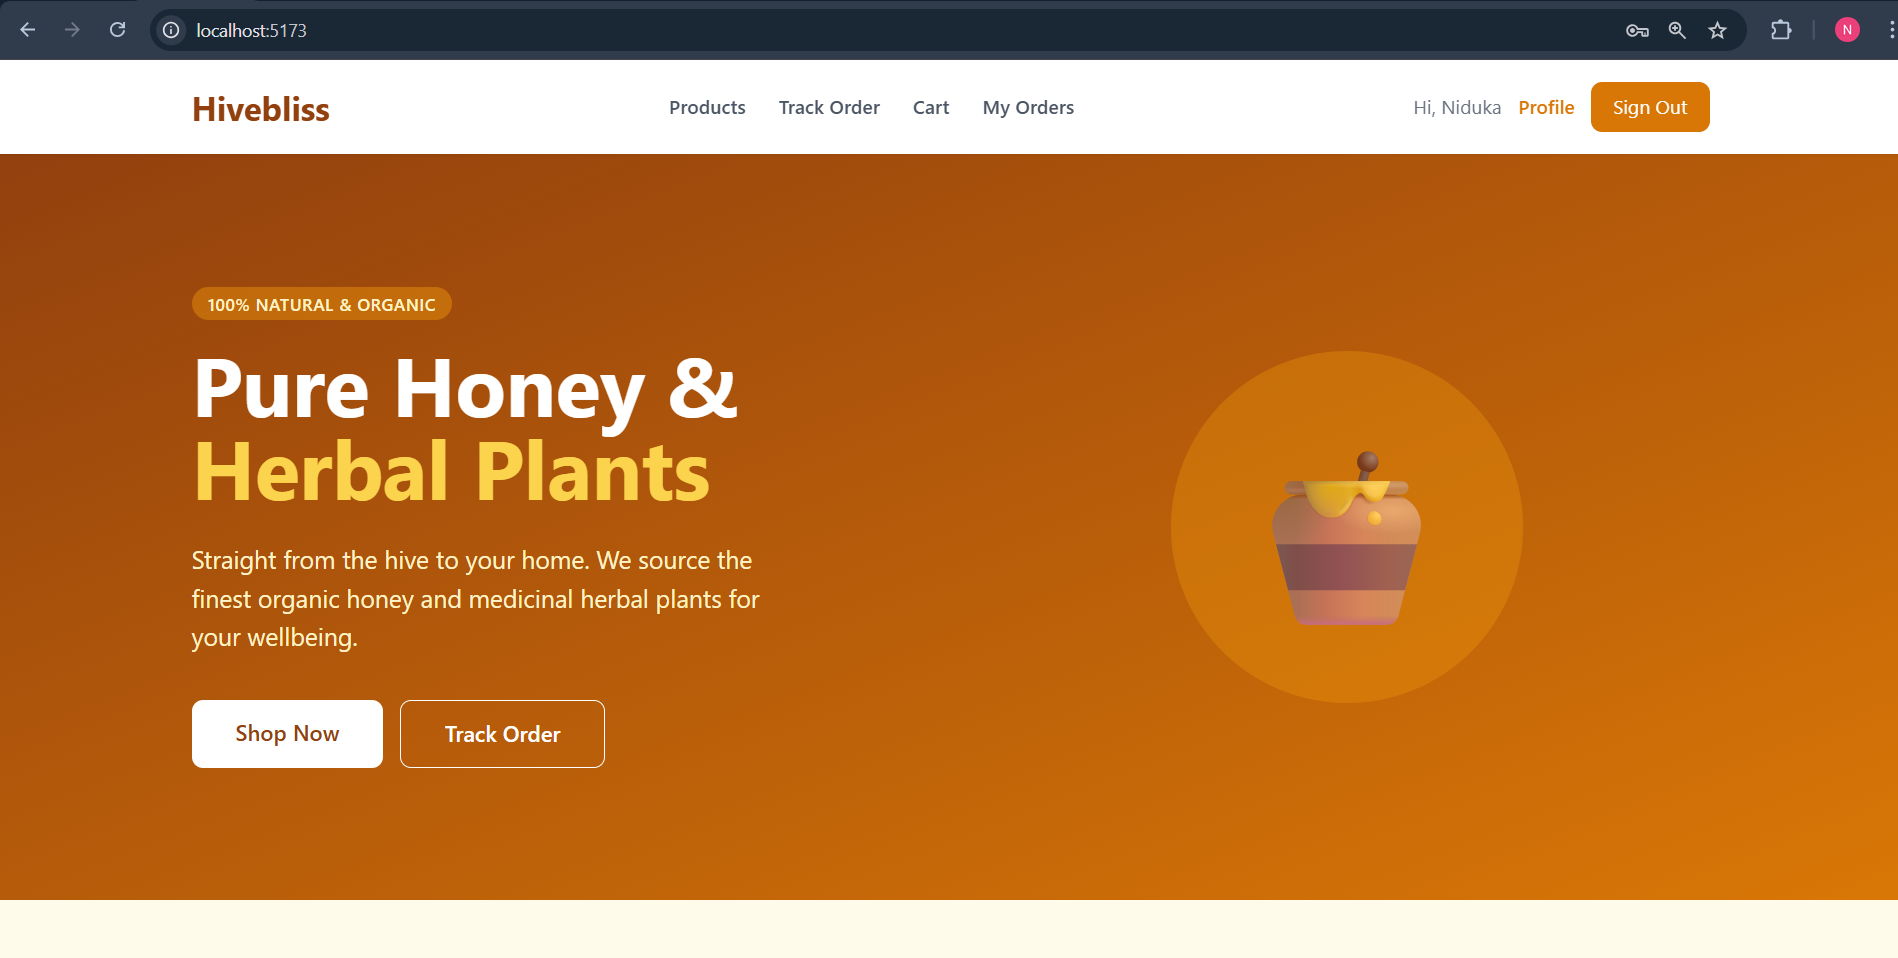
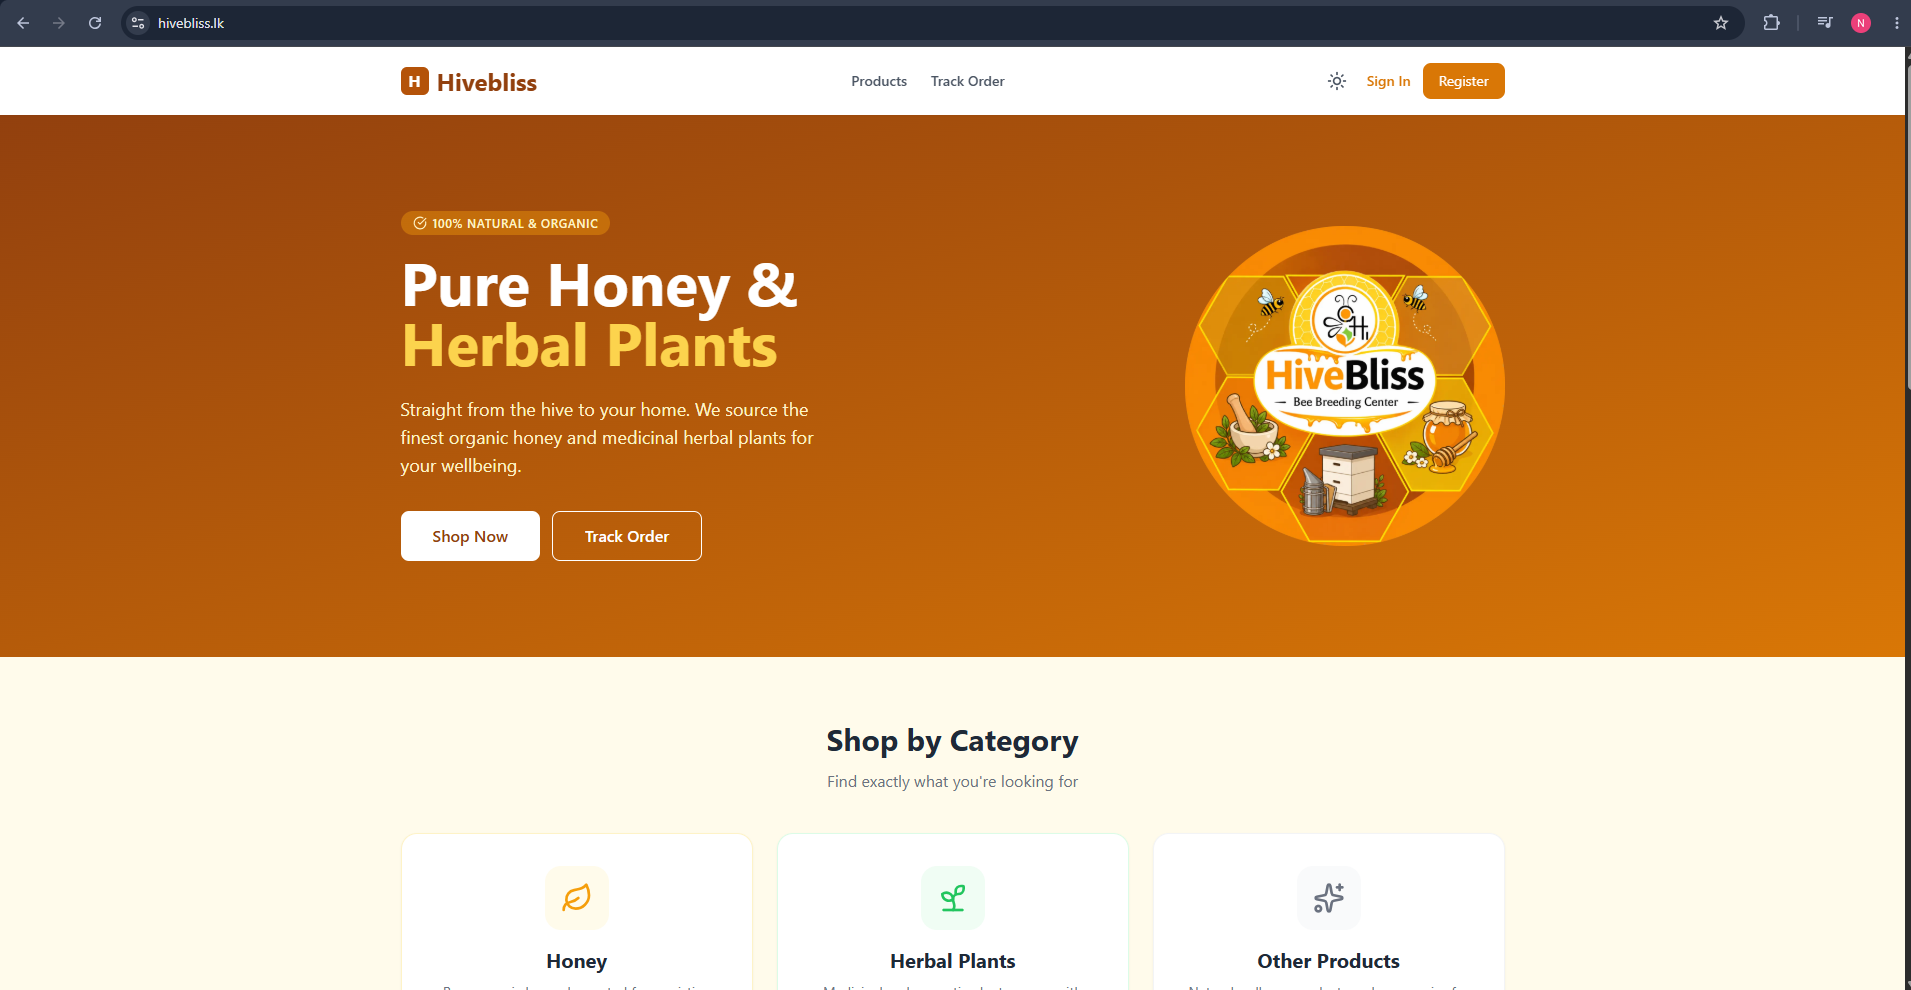
Update a project image and the URL

diff --git a/frontend/projects/hivebliss.html b/frontend/projects/hivebliss.html
@@ -207,7 +207,7 @@
             <section class="project-section">
                 <h2 class="section-heading">Project Links</h2>
                 <div class="project-links">
-                    <a href="https://hiveblis.vercel.app" class="project-link-btn" target="_blank">
+                    <a href="https://www.hivebliss.lk/" class="project-link-btn" target="_blank">
                         <svg xmlns="http://www.w3.org/2000/svg" width="20" height="20" fill="currentColor" viewBox="0 0 16 16">
                             <path d="M0 8a8 8 0 1 1 16 0A8 8 0 0 1 0 8zm7.5-6.923c-.67.204-1.335.82-1.887 1.855A7.97 7.97 0 0 0 5.145 4H7.5V1.077zM4.09 4a9.267 9.267 0 0 1 .64-1.539 6.7 6.7 0 0 1 .597-.933A7.025 7.025 0 0 0 2.255 4H4.09zm-.582 3.5c.03-.877.138-1.718.312-2.5H1.674a6.958 6.958 0 0 0-.656 2.5h2.49zM4.847 5a12.5 12.5 0 0 0-.338 2.5H7.5V5H4.847zM8.5 5v2.5h2.99a12.495 12.495 0 0 0-.337-2.5H8.5zM4.51 8.5a12.5 12.5 0 0 0 .337 2.5H7.5V8.5H4.51zm3.99 0V11h2.653c.187-.765.306-1.608.338-2.5H8.5zM5.145 12c.138.386.295.744.468 1.068.552 1.035 1.218 1.65 1.887 1.855V12H5.145zm.182 2.472a6.696 6.696 0 0 1-.597-.933A9.268 9.268 0 0 1 4.09 12H2.255a7.024 7.024 0 0 0 3.072 2.472zM3.82 11a13.652 13.652 0 0 1-.312-2.5h-2.49c.062.89.291 1.733.656 2.5H3.82zm6.853 3.472A7.024 7.024 0 0 0 13.745 12H11.91a9.27 9.27 0 0 1-.64 1.539 6.688 6.688 0 0 1-.597.933zM8.5 12v2.923c.67-.204 1.335-.82 1.887-1.855.173-.324.33-.682.468-1.068H8.5zm3.68-1h2.146c.365-.767.594-1.61.656-2.5h-2.49a13.65 13.65 0 0 1-.312 2.5zm2.802-3.5a6.959 6.959 0 0 0-.656-2.5H12.18c.174.782.282 1.623.312 2.5h2.49zM11.27 2.461c.247.464.462.98.64 1.539h1.835a7.024 7.024 0 0 0-3.072-2.472c.218.284.418.598.597.933zM10.855 4a7.966 7.966 0 0 0-.468-1.068C9.835 1.897 9.17 1.282 8.5 1.077V4h2.355z"/>
                         </svg>
@@ -224,7 +224,7 @@
         </div>
 
         <footer class="project-footer">
-            <p>&copy; 2025 Niduka Jayathunga. All rights reserved.</p>
+            <p>&copy; 2026 Niduka Jayathunga. All rights reserved.</p>
         </footer>
     </div>
 </body>

diff --git a/frontend/projects/airplane-ticket-booking.html b/frontend/projects/airplane-ticket-booking.html
@@ -190,7 +190,7 @@
 
         <!-- Footer -->
         <footer class="project-footer">
-            <p>&copy; 2025 Niduka Jayathunga. All rights reserved.</p>
+            <p>&copy; 2026 Niduka Jayathunga. All rights reserved.</p>
         </footer>
     </div>
 </body>

diff --git a/frontend/projects/email-application.html b/frontend/projects/email-application.html
@@ -182,7 +182,7 @@
         </div>
 
         <footer class="project-footer">
-            <p>&copy; 2025 Niduka Jayathunga. All rights reserved.</p>
+            <p>&copy; 2026 Niduka Jayathunga. All rights reserved.</p>
         </footer>
     </div>
 </body>

diff --git a/frontend/projects/online-food-ordering.html b/frontend/projects/online-food-ordering.html
@@ -248,7 +248,7 @@
 
         <!-- Footer -->
         <footer class="project-footer">
-            <p>&copy; 2025 Niduka Jayathunga. All rights reserved.</p>
+            <p>&copy; 2026 Niduka Jayathunga. All rights reserved.</p>
         </footer>
     </div>
 </body>

diff --git a/frontend/projects/wine-analysis.html b/frontend/projects/wine-analysis.html
@@ -229,7 +229,7 @@
 
         <!-- Footer -->
         <footer class="project-footer">
-            <p>&copy; 2025 Niduka Jayathunga. All rights reserved.</p>
+            <p>&copy; 2026 Niduka Jayathunga. All rights reserved.</p>
         </footer>
     </div>
 </body>